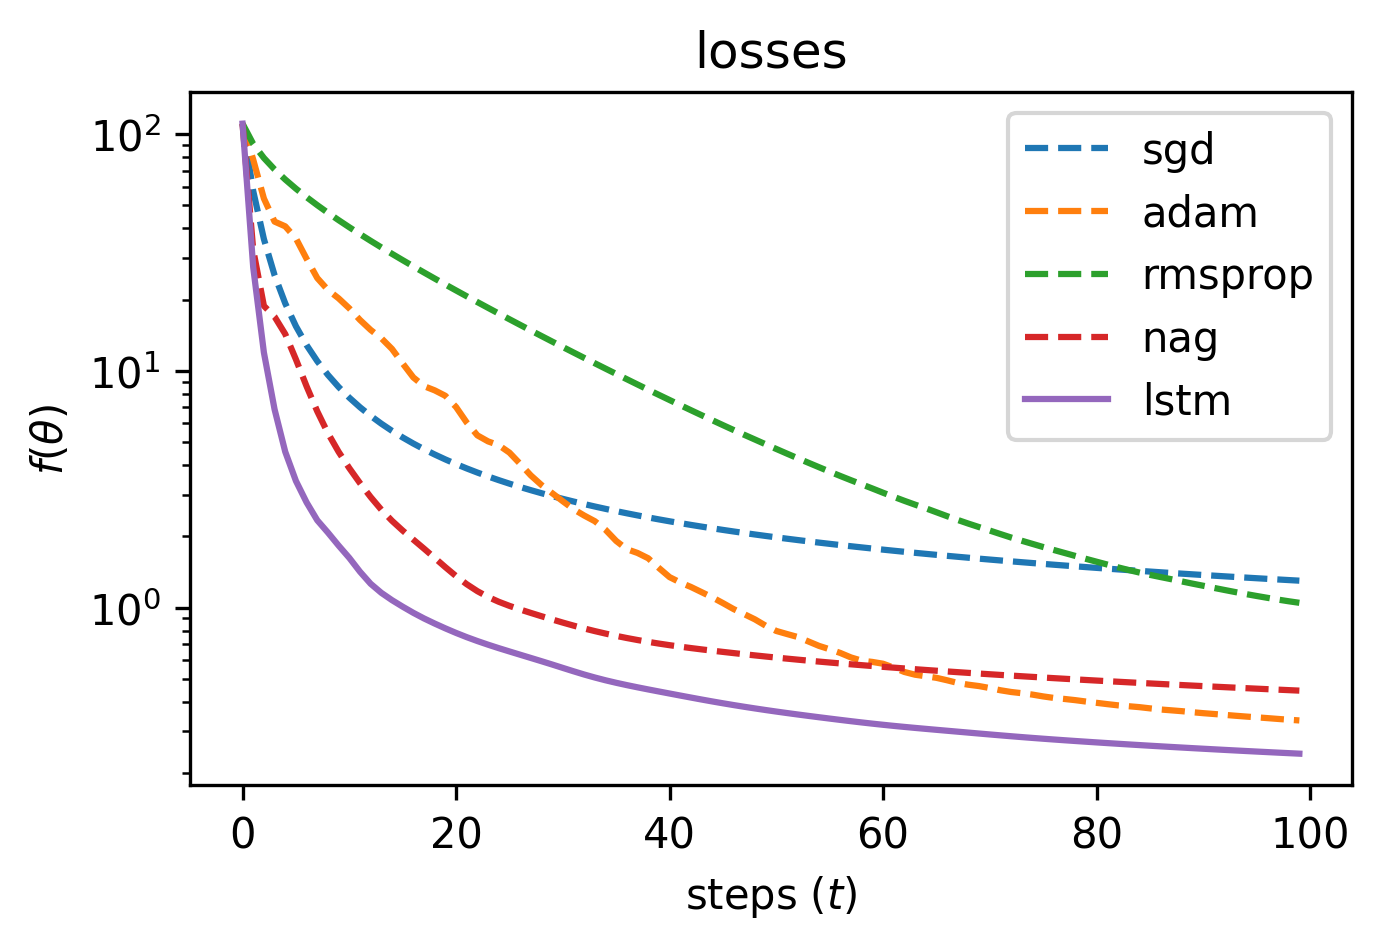
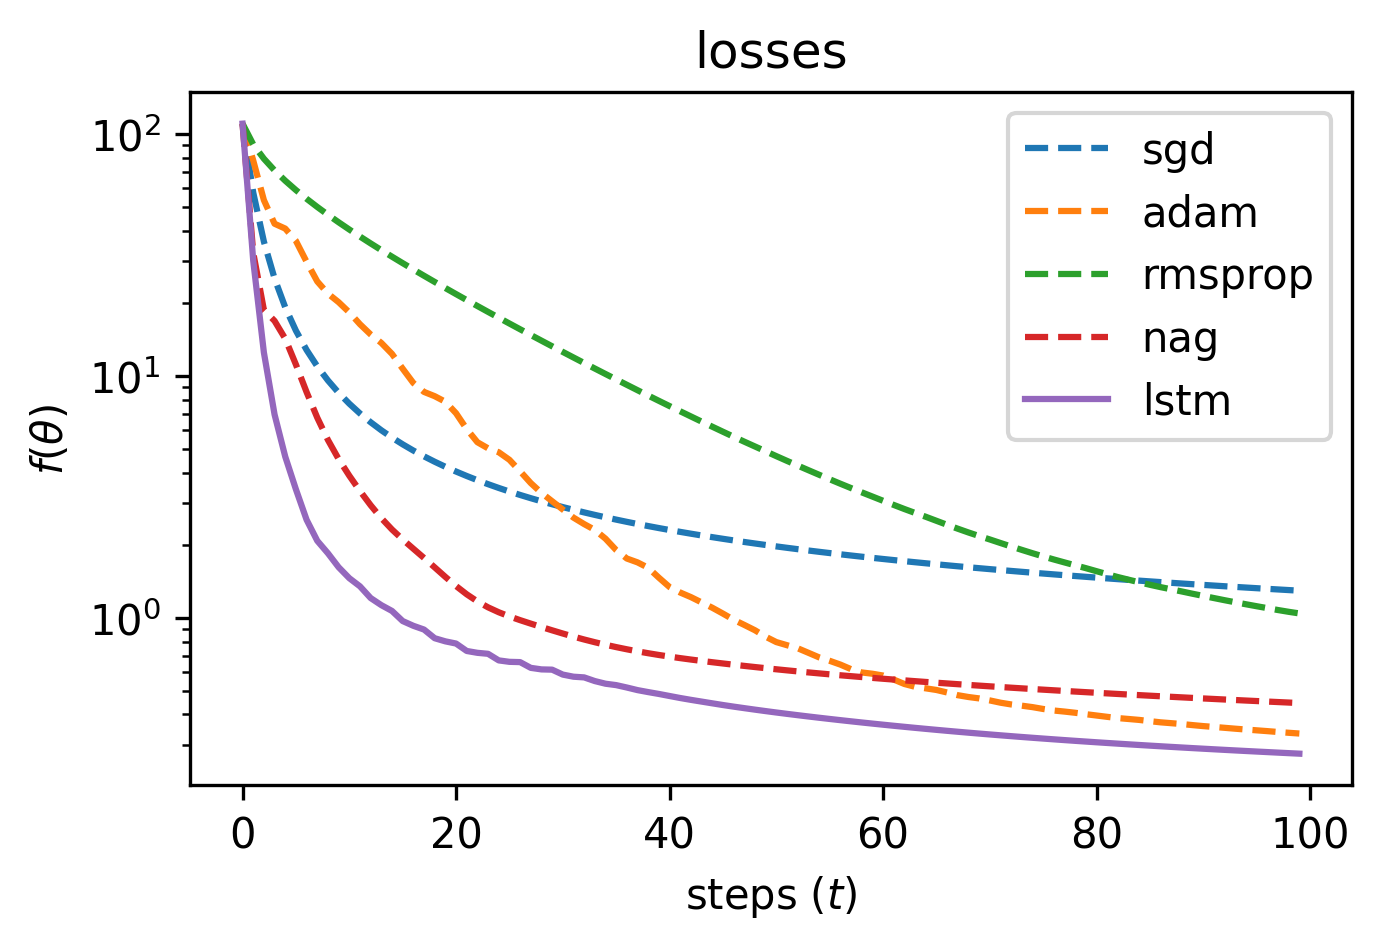
using equinox

diff --git a/train.py b/train.py
@@ -1,12 +1,10 @@
 from argparse import ArgumentParser
-from functools import partial
 
+import equinox as eqx
 import jax
 import jax.numpy as jnp
 import optax
 import wandb
-from flax import serialization
-from jax import value_and_grad
 
 from model import LSTMOptimizer
 from tasks import quadratic_data, quadratic_task
@@ -16,24 +14,21 @@ def train(args):
 
     rng = jax.random.PRNGKey(seed=args.seed)
 
-    example_input = jnp.zeros((args.batch_size, args.dim))
-    lstm_opt = LSTMOptimizer()
-    lstm_state = lstm_opt.initialize_carry(rng, example_input)
-    params = lstm_opt.init(rng, example_input, lstm_state)
+    lstm_opt = LSTMOptimizer(rng)
+    lstm_state = lstm_opt.initialize_carry((args.batch_size, args.dim))
 
     meta_opt = optax.adam(learning_rate=args.learning_rate)
-    meta_opt_state = meta_opt.init(params)
+    meta_opt_state = meta_opt.init(lstm_opt)
 
-    @jax.jit
-    def train_step(params, w, y, theta, state):
-        def loss_fn(params):
-            update = partial(lstm_opt.apply, params)
+    @eqx.filter_jit
+    def train_step(opt, w, y, theta, state):
+        def loss_fn(opt):
             losses, _theta, _state = quadratic_task(
-                w, y, theta, update, state, args.unroll_steps
+                w, y, theta, opt, state, args.unroll_steps
             )
             return losses.sum(), (_theta, _state)
 
-        (loss, (_theta, _state)), grads = value_and_grad(loss_fn, has_aux=True)(params)
+        (loss, (_theta, _state)), grads = eqx.filter_value_and_grad(loss_fn, has_aux=True)(opt)
         return loss, grads, _theta, _state
 
     best_loss = jnp.inf
@@ -41,19 +36,18 @@ def train(args):
     for _ in range(args.steps):
         rng, subkey = jax.random.split(rng)
         w, y, theta = quadratic_data(subkey, args.batch_size, args.dim)
-        lstm_state = lstm_opt.initialize_carry(rng, theta)
+        lstm_state = lstm_opt.initialize_carry((args.batch_size, args.dim))
         meta_loss = 0.0
 
         for _ in range(args.unrolls):
-            loss, grads, theta, lstm_state = train_step(params, w, y, theta, lstm_state)
+            loss, grads, theta, lstm_state = train_step(lstm_opt, w, y, theta, lstm_state)
             updates, meta_opt_state = meta_opt.update(grads, meta_opt_state)
-            params = optax.apply_updates(params, updates)
+            lstm_opt = optax.apply_updates(lstm_opt, updates)
             meta_loss += loss
 
         if meta_loss < best_loss:
             best_loss = meta_loss
-            with open(args.model_path, "wb") as f:
-                f.write(serialization.to_bytes(params))
+            eqx.tree_serialise_leaves(args.model_path, lstm_opt)
 
         wandb.log({"loss": meta_loss})
 
@@ -69,7 +63,7 @@ if __name__ == "__main__":
     parser.add_argument("--unrolls", type=int, default=5)
     parser.add_argument("--learning_rate", type=float, default=1e-2)
     parser.add_argument("--steps", type=int, default=1000)
-    parser.add_argument("--model_path", default="models/params.mp")
+    parser.add_argument("--model_path", default="models/params.eqx")
     args = parser.parse_args()
     wandb.init(config=args, project="learning-to-learn-jax")
     train(args)

diff --git a/model.py b/model.py
@@ -1,15 +1,24 @@
+from functools import partial
+
+import equinox as eqx
 import jax
-from flax import linen as nn
+import jax.numpy as jnp
 
 
-class LSTMOptimizer(nn.Module):
-    hidden_units: int = 20
+class LSTMOptimizer(eqx.Module):
+    lstm1: eqx.nn.LSTMCell
+    lstm2: eqx.nn.LSTMCell
+    fc: eqx.nn.Linear
+    hidden_units: int = 10
 
-    def setup(self):
-        self.lstm1 = nn.recurrent.LSTMCell()
-        self.lstm2 = nn.recurrent.LSTMCell()
-        self.fc = nn.Dense(1)
+    def __init__(self, key):
+        keys = jax.random.split(key, 3)
+        self.lstm1 = eqx.nn.LSTMCell(1, self.hidden_units, key=keys[0])
+        self.lstm2 = eqx.nn.LSTMCell(self.hidden_units, self.hidden_units, key=keys[1])
+        self.fc = eqx.nn.Linear(self.hidden_units, 1, key=keys[2])
 
+    @partial(jax.vmap, in_axes=(None, 0, 0))
+    @partial(jax.vmap, in_axes=(None, 0, 0))
     def __call__(self, gradient, state):
         # gradients of optimizee do not depend on optimizer
         gradient = jax.lax.stop_gradient(gradient)
@@ -19,14 +28,15 @@ class LSTMOptimizer(nn.Module):
         gradient = gradient[..., None]
 
         carry1, carry2 = state
-        carry1, x = self.lstm1(carry1, gradient)
-        carry2, x = self.lstm2(carry2, x)
-        update = self.fc(x)
+        carry1 = self.lstm1(gradient, carry1)
+        carry2 = self.lstm2(carry1[0], carry2)
+        update = self.fc(carry2[0])
         update = update[..., 0]  # remove last dimension
         return update, (carry1, carry2)
 
-    def initialize_carry(self, rng, params):
+    def initialize_carry(self, input_shape):
+        shape = input_shape + (self.hidden_units,)
         return (
-            nn.LSTMCell.initialize_carry(rng, params.shape, self.hidden_units),
-            nn.LSTMCell.initialize_carry(rng, params.shape, self.hidden_units),
+            (jnp.zeros(shape), jnp.zeros(shape)),
+            (jnp.zeros(shape), jnp.zeros(shape)),
         )

diff --git a/eval.py b/eval.py
@@ -2,10 +2,10 @@ from argparse import ArgumentParser
 from functools import partial
 
 import jax
+import equinox as eqx
 import jax.numpy as jnp
 import matplotlib.pyplot as plt
 import optax
-from flax import serialization
 
 from model import LSTMOptimizer
 from tasks import quadratic_data, quadratic_task
@@ -41,15 +41,10 @@ def eval(args):
         plt.plot(best_losses, label=name, linestyle="--")
 
     if "lstm" in args.optimizers:
-        lstm_opt = LSTMOptimizer()
-        lstm_state = lstm_opt.initialize_carry(rng, theta)
-        params = lstm_opt.init(rng, theta, lstm_state)
-
-        with open(args.model_path, "rb") as f:
-            params = serialization.from_bytes(params, f.read())
-
-        update = partial(lstm_opt.apply, params)
-        losses, *_ = quadratic_task(w, y, theta, opt_state=lstm_state, opt_fn=update)
+        lstm_opt = LSTMOptimizer(rng)
+        lstm_opt = eqx.tree_deserialise_leaves(args.model_path, lstm_opt)
+        lstm_state = lstm_opt.initialize_carry(theta.shape)
+        losses, *_ = quadratic_task(w, y, theta, opt_state=lstm_state, opt_fn=lstm_opt)
         plt.plot(losses, label="lstm")
 
     plt.legend()
@@ -66,7 +61,7 @@ if __name__ == "__main__":
     parser.add_argument("--optimizers", nargs="+", default=["sgd"])
     parser.add_argument("--batch_size", type=int, default=128)
     parser.add_argument("--dim", type=int, default=10)
-    parser.add_argument("--model_path", default="models/params.mp")
+    parser.add_argument("--model_path", default="models/params.eqx")
     parser.add_argument("--save_path", default="figures/test.png")
     args = parser.parse_args()
     eval(args)
